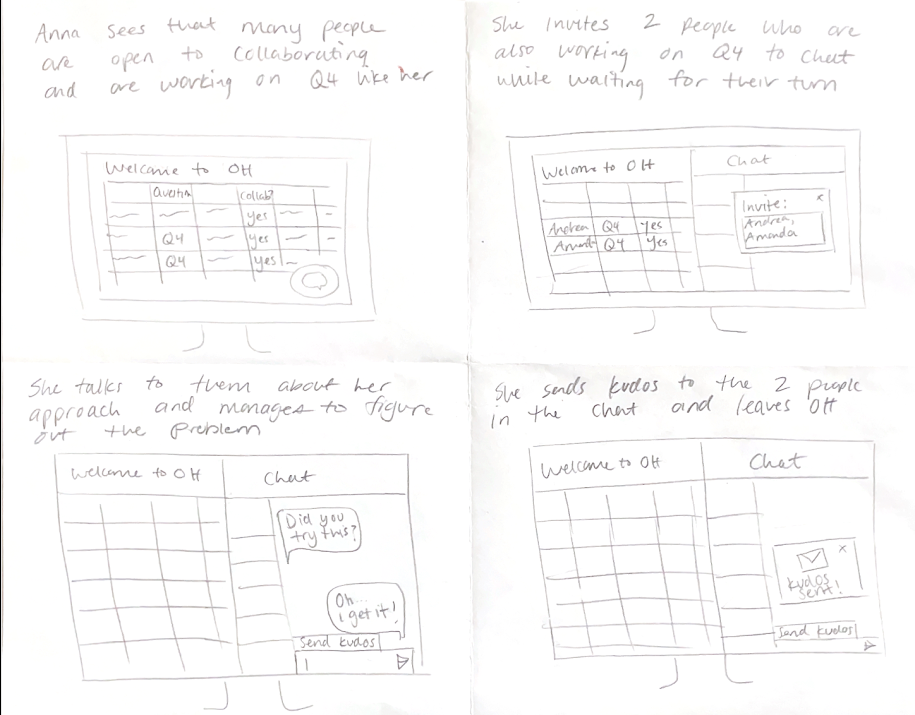
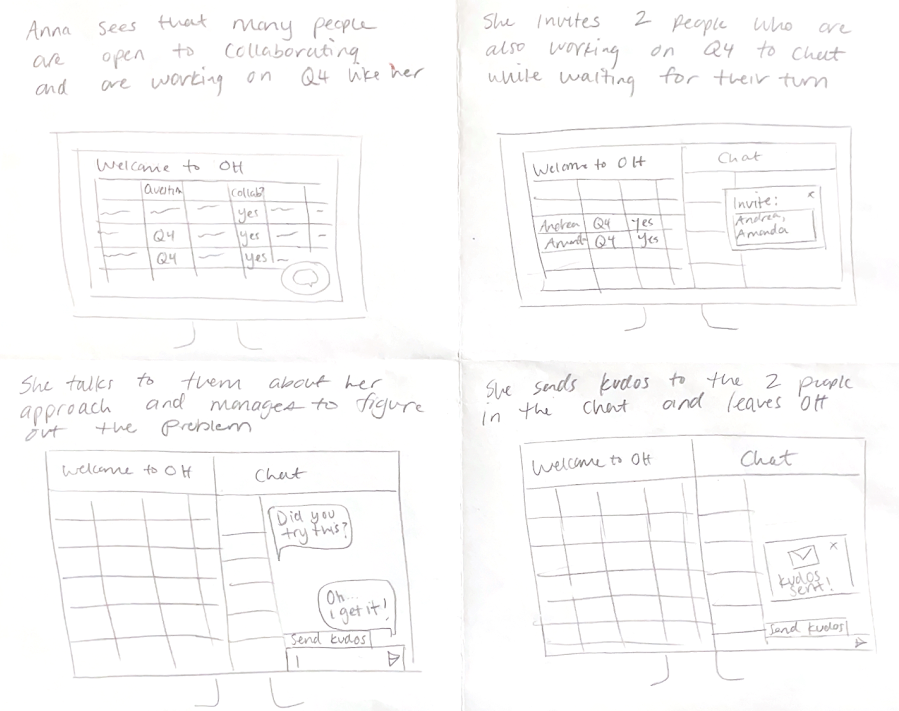
profiles

diff --git a/_posts/2023-05-04-CodeandDesignSpecification.md b/_posts/2023-05-04-CodeandDesignSpecification.md
@@ -56,7 +56,7 @@ Student flow:
 ### Registration flow
 - Student registers for an account with their email and password
 - Student logs in everytime she wants to enter the queue. Her messages and previous queuing history is stored in this account.
-![Login flow storyboard](/power-hour/img/StoryboardRegistration.png){: height="159px" width="299px" }
+![Login flow storyboard](/power-hour/img/StoryboardRegistration.png){: height="300px" width="160px" }
 
 ### Normal OH flow
 - Student gets stuck on HW and signs into the OH tool
@@ -65,14 +65,14 @@ Student flow:
 - TA comes over and help the student (Status: Being Helped)
 - Student is helped and gets prompted a message to give the TA a kudos if they are helpful (Status: Helped)
 - Student gives TA a kudos and walks away satisfied
-![Normal flow storyboard](/power-hour/img/StoryboardNormal.png){: height="159px" width="299px" }
+![Normal flow storyboard](/power-hour/img/StoryboardNormal.png)
 
 ### Collaboration flow
 - Student sees many people open to collaboration on the queue working on similar problem
 - Student creates a collaboration session/joins an existing collaboration session with those students
 - In the chat, student gets inspiration from a collaborator’s message, and they managed to solve the problem while waiting in queue
 - Student gives that collaborator a kudos message and leaves the queue
-![Collaboration flow storyboard](/power-hour/img/StoryboardCollaboration.png){: height="159px" width="299px" }
+![Collaboration flow storyboard](/power-hour/img/StoryboardCollaboration.png)
 
 ## Architectural design
 

diff --git a/_posts/2023-04-27-LowFidelityPrototype.md b/_posts/2023-04-27-LowFidelityPrototype.md
@@ -1,6 +1,6 @@
 # Low-Fidelity Prototype
 
-Our prototype includes the following components:
+## Prototype components:
 - **The OH queue**: The OH queue should include information on what students are working on. We use a spreadsheet to simulate it so we can learn what information users need on the queue interface.
 - **Joining the OH**: When joining the queue, students will need to enter some information before getting help. We use a google form that asks for students’ name, question type, details on their question, and whether or not they are open to collaboration.
 After submitting, we will show them a spreadsheet that we will populate with their response and additional columns such as timestamp and status. This will allow them to track their place in the queue and see what other students are working on, as well as their willingness to collaborate.

diff --git a/index.md b/index.md
@@ -1,1 +1,8 @@
+# About
 A new and improved office hours management system.
+
+# Our Team
+![Amanda profile](img/AmandaProfile.jpg){: height="200px" width="200px" }
+![Andrea profile](img/AndreaProfile.jpg){: height="200px" width="200px" }
+![Sonia profile](img/SoniaProfile.png){: height="200px" width="200px" }
+![Wen profile](img/WenProfile.jpg){: height="200px" width="200px" }
